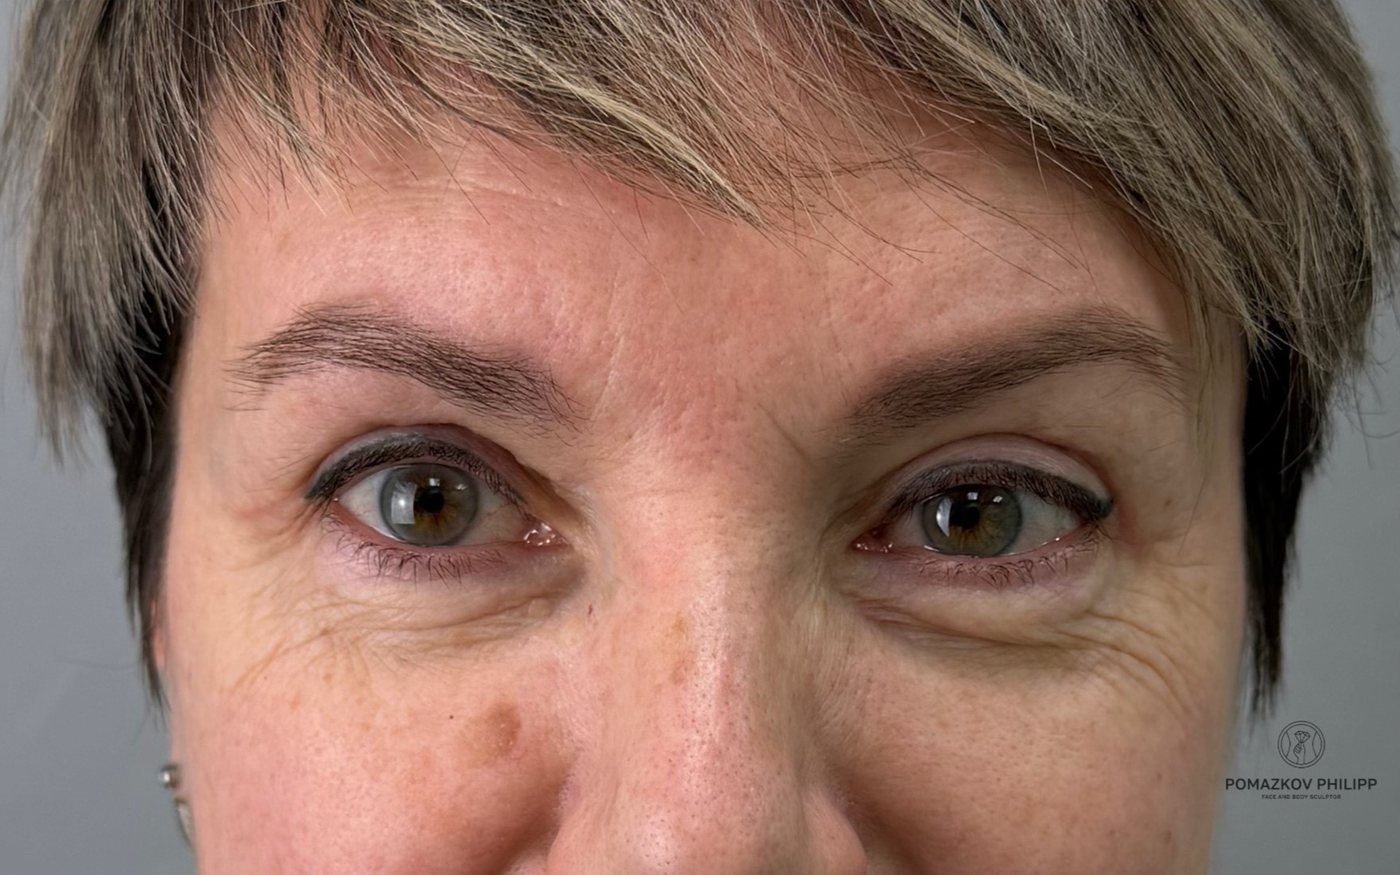
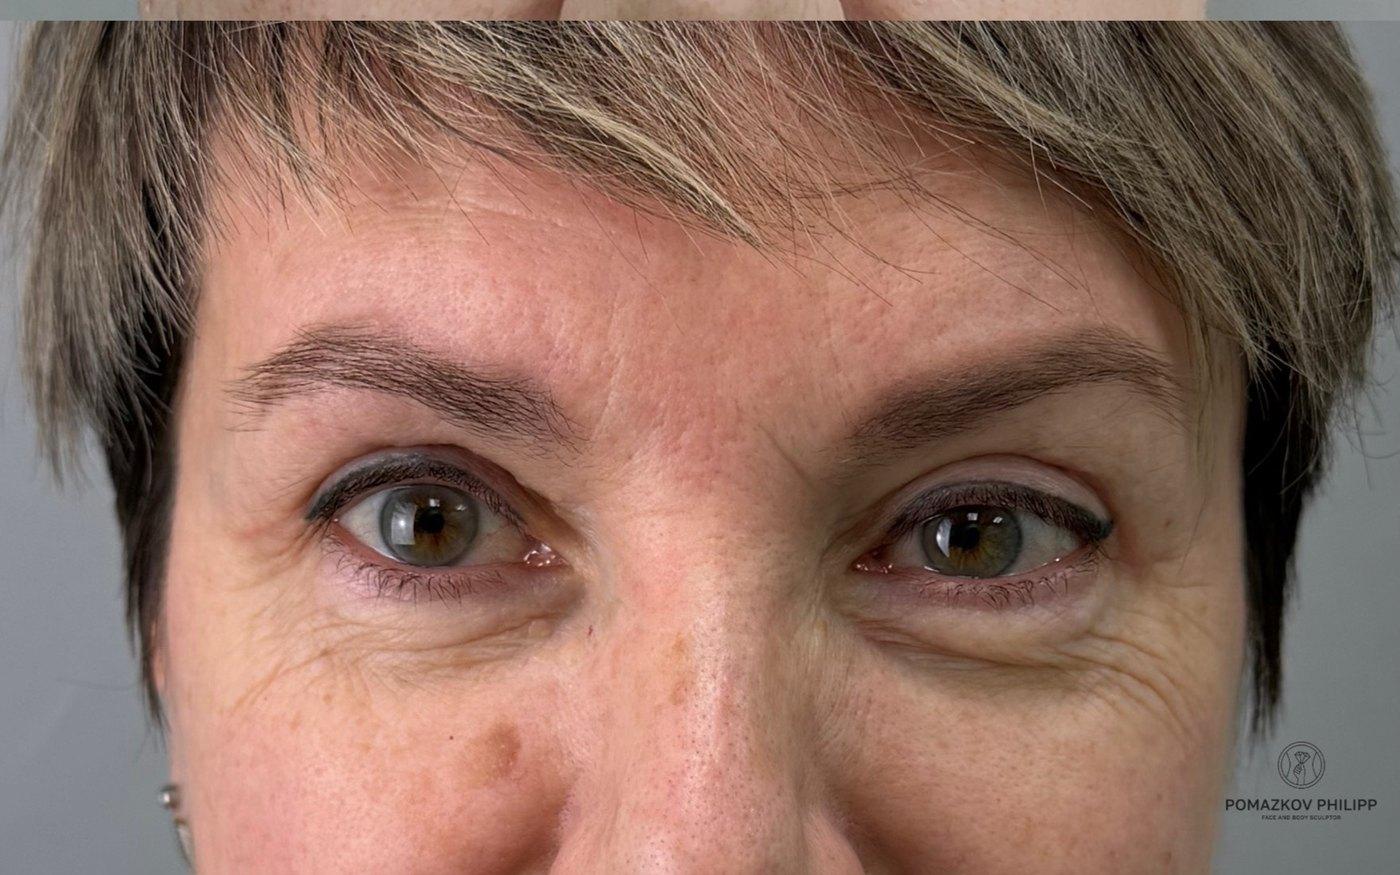
Fix eye/shoulder alignment in upper blepharoplasty and mammoplasty pairs
Upper blepharoplasty: the clinic's pre-made before/after composite was
naively split at its visual seam, assuming both halves shared the same
vertical framing. They didn't (~26px eye-height offset) — recropped
using measured pupil position to match eye height precisely.

Mammoplasty: the rail pair was scaled using nipple-to-nipple distance,
but that distance shifted from the surgery's own symmetrization, making
it an unreliable scale reference. Recropped using shoulder width
(anatomically unchanged by breast surgery) instead.

diff --git a/production/index.html b/production/index.html
@@ -26,7 +26,7 @@
 <link rel="preconnect" href="https://fonts.gstatic.com" crossorigin>
 <link href="https://fonts.googleapis.com/css2?family=Source+Serif+4:ital,opsz,wght@0,8..60,400;0,8..60,500;0,8..60,600;0,8..60,700;1,8..60,400;1,8..60,500&family=IBM+Plex+Sans:wght@300;400;500;600&family=IBM+Plex+Mono:wght@400;500&family=Montserrat:wght@400;500;600&display=swap" rel="stylesheet">
 
-<link rel="stylesheet" href="styles.css?v=27">
+<link rel="stylesheet" href="styles.css?v=28">
 
 <script type="application/ld+json">
 {
@@ -549,22 +549,22 @@
 <script src="https://cdn.jsdelivr.net/npm/gsap@3.13.0/dist/SplitText.min.js"></script>
 <script src="https://cdn.jsdelivr.net/npm/gsap@3.13.0/dist/DrawSVGPlugin.min.js"></script>
 
-<script src="ap5-figure.js?v=27"></script>
-<script src="availability.js?v=27"></script>
-<script src="booking.js?v=27"></script>
-<script src="app.js?v=27"></script>
+<script src="ap5-figure.js?v=28"></script>
+<script src="availability.js?v=28"></script>
+<script src="booking.js?v=28"></script>
+<script src="app.js?v=28"></script>
 
 <!-- Motion system — loads after app.js so dynamically-created elements
      (rail buttons, subnav, booking panels) already exist in the DOM. -->
-<script src="motion/global.js?v=27"></script>
-<script src="motion/hero.js?v=27"></script>
-<script src="motion/requests.js?v=27"></script>
-<script src="motion/results.js?v=27"></script>
-<script src="motion/works.js?v=27"></script>
-<script src="motion/approach.js?v=27"></script>
-<script src="motion/price.js?v=27"></script>
-<script src="motion/explains.js?v=27"></script>
-<script src="motion/booking.js?v=27"></script>
-<script src="motion/router.js?v=27"></script>
+<script src="motion/global.js?v=28"></script>
+<script src="motion/hero.js?v=28"></script>
+<script src="motion/requests.js?v=28"></script>
+<script src="motion/results.js?v=28"></script>
+<script src="motion/works.js?v=28"></script>
+<script src="motion/approach.js?v=28"></script>
+<script src="motion/price.js?v=28"></script>
+<script src="motion/explains.js?v=28"></script>
+<script src="motion/booking.js?v=28"></script>
+<script src="motion/router.js?v=28"></script>
 </body>
 </html>
